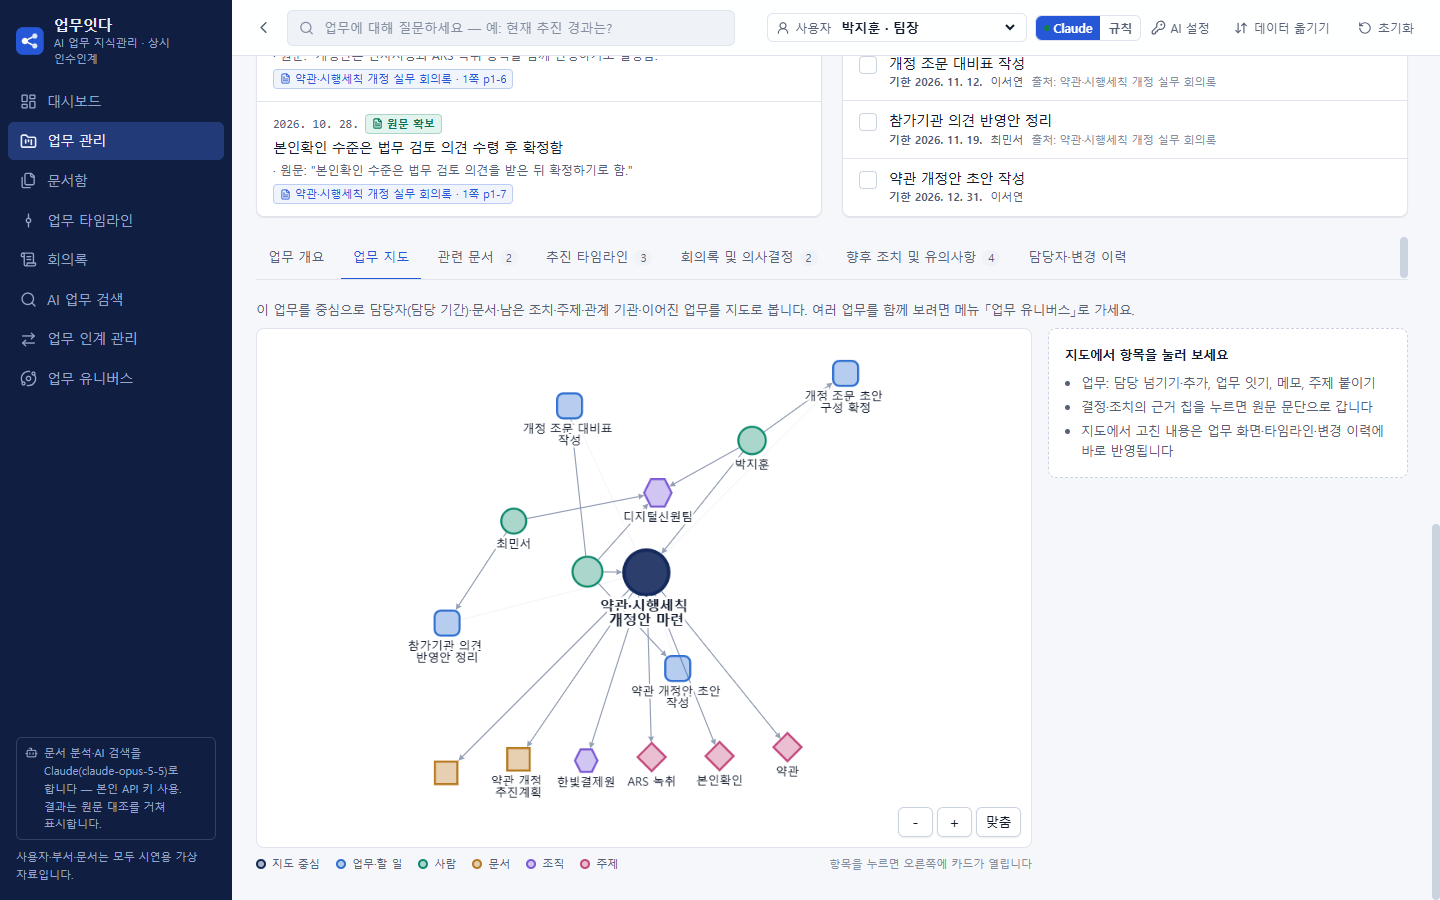
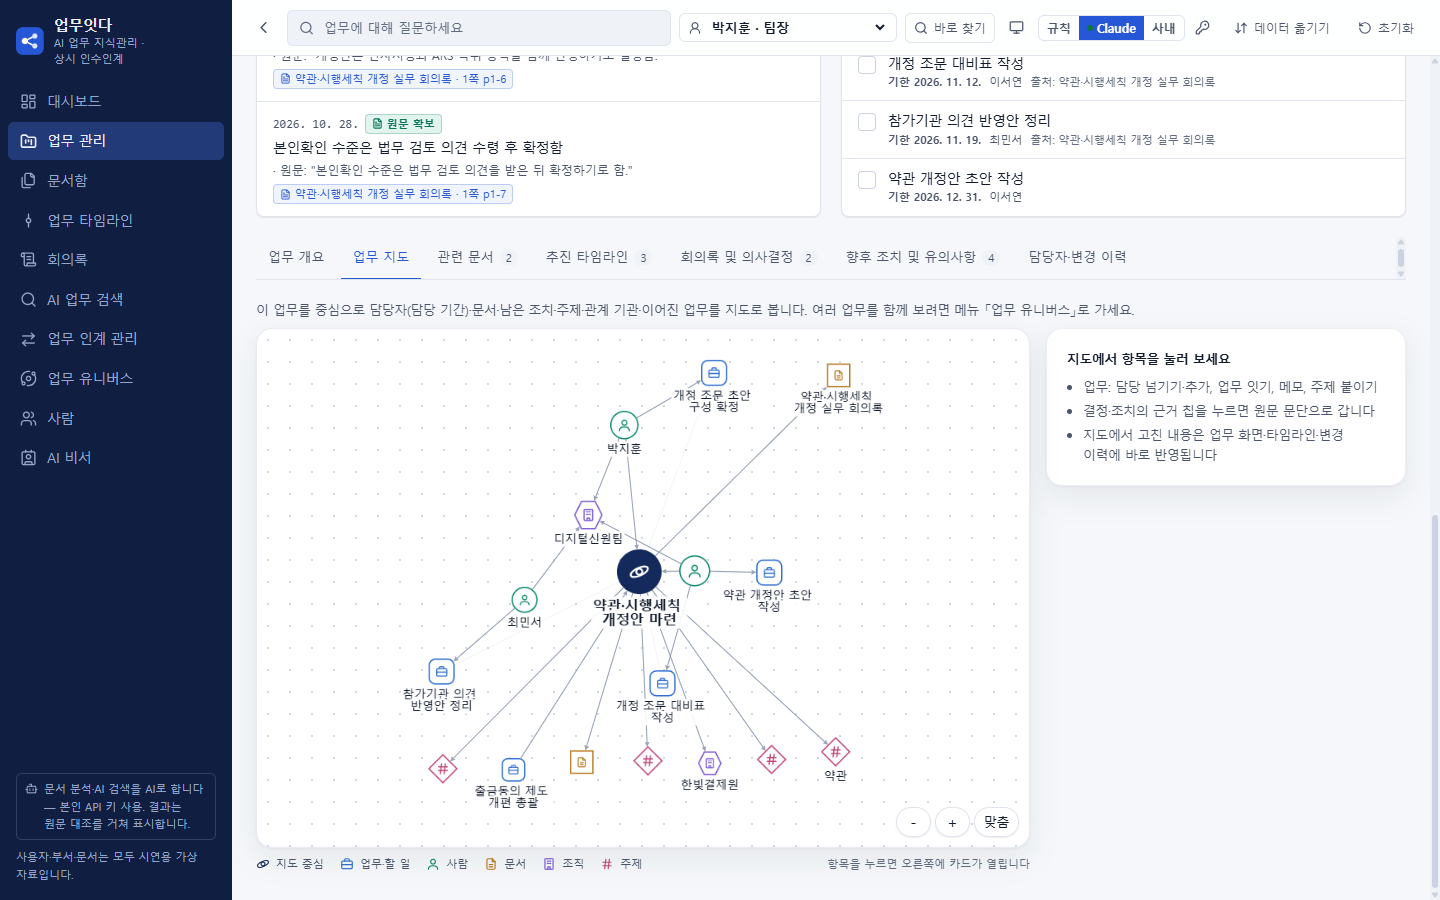
업무잇다 제출 자료: 소개자료 v1.0(AI 비서 한 줄·숫자·화면 현행화), 먼저 읽어주세요·대본 v1.0, 촬영·녹화 도구를 현재 시드에 맞추고 AI 비서 장면 추가

diff --git a/docs/submission/intro-itda/소개자료.html b/docs/submission/intro-itda/소개자료.html
@@ -3,8 +3,8 @@
 <head>
 <meta charset="utf-8">
 <title>업무잇다 소개자료</title>
-<!-- 1차 제출 소개자료 초안 v0.1 (2026-10-29, CR-24 통합 제품 기준). 화면: itda/dist-single/index.html 시연 데이터, 헤드리스 Chrome 1440×900(itda/tools/intro-shots.mjs --key).
-     「동결 뒤 확정」 숫자는 기능 동결 뒤 다시 센다. 모든 이름·기관·문서는 가상. -->
+<!-- 1차 제출 소개자료 v1.0 (2026-10-31, 커밋 713c3eb 기준). 화면: itda/dist-single/index.html 시연 데이터, 헤드리스 Chrome 1440×900(itda/tools/intro-shots.mjs --key).
+     숫자는 2026-10-31 실행 결과. 모든 이름·기관·문서는 가상. -->
 <style>
   @page { size: A4; margin: 0; }
   :root {
@@ -127,22 +127,22 @@
     <div class="hero">
       <div>
         <div class="crop" style="--x:240;--y:56;--w:1200;--h:700"><img src="work-detail.png" alt="업무 상세 화면">
-          <span class="pin" style="left:12%;top:23%">1</span><span class="pin" style="left:3%;top:47%">2</span><span class="pin" style="left:64%;top:47%">3</span></div>
+          <span class="pin" style="left:30%;top:12.5%">1</span><span class="pin" style="left:3.2%;top:41.5%">2</span><span class="pin" style="left:63%;top:70%">3</span></div>
         <div class="cap">업무 상세(인계 자료) — 「비대면 출금동의 추진」</div>
       </div>
       <div>
-        <div class="crop" style="--x:240;--y:56;--w:1200;--h:700"><img src="team-map.png" alt="팀·부서 지도">
-          <span class="pin" style="left:42%;top:58%">4</span><span class="pin" style="left:43%;top:30%">5</span><span class="pin" style="left:83%;top:70%">6</span></div>
-        <div class="cap">업무 유니버스 — 팀장 화면, 「출금이체팀」을 펼치고 업무 카드를 연 모습</div>
+        <div class="crop" style="--x:240;--y:70;--w:1200;--h:700"><img src="team-map.png" alt="팀·부서 지도">
+          <span class="pin" style="left:35%;top:56%">4</span><span class="pin" style="left:49%;top:27%">5</span><span class="pin" style="left:84%;top:80%">6</span></div>
+        <div class="cap">업무 유니버스 — 부장 화면, 「출금이체팀」을 펼치고 업무 카드를 연 모습</div>
       </div>
     </div>
     <div class="legend" style="margin-top:1.8mm">
       <div><span class="k">1</span><span>업무 단위 — 담당자·담당 기간·소관 부서, 「인계 시작」</span></div>
-      <div><span class="k">4</span><span>지도에서 고른 업무 — 카드에서 담당 넘기기·업무 잇기·메모·주제</span></div>
-      <div><span class="k">2</span><span>업무 한눈에 보기 — 무엇·왜·결정·현재·앞으로 5문항</span></div>
-      <div><span class="k">5</span><span>접힌 팀(＋숫자) — 두 번 누르면 펼침, 부서 → 팀 → 업무</span></div>
+      <div><span class="k">4</span><span>지도에서 고른 업무 — 오른쪽 카드에서 담당 넘기기·잇기·메모·주제</span></div>
+      <div><span class="k">2</span><span>업무 한눈에 보기 — 무엇·왜·경과·현재·앞으로 5문항</span></div>
+      <div><span class="k">5</span><span>접힌 팀 — 두 번 누르면 펼침, 부서 → 팀 → 업무</span></div>
       <div><span class="k">3</span><span>문장마다 근거 — <span class="ui">원문 확인</span> 칩을 누르면 원문 문단으로</span></div>
-      <div><span class="k">6</span><span>지도 위험 점검 — 「혼자만 아는 일」(빨간 테두리) 목록</span></div>
+      <div><span class="k">6</span><span>인사이트 — 「혼자만 아는 일」·빠지면 막히는 사람 목록</span></div>
     </div>
   </div>
 
@@ -154,69 +154,71 @@
       <div class="s"><b>조직으로</b>저장·인증·문서함만 사내 시스템으로 바꾸면 같은 핵심 그대로(2쪽)</div>
     </div>
   </div>
-  <div class="foot"><span>업무잇다 · 1차 소개자료 초안 v0.1 (2026-10-29)</span><span>1 / 2</span></div>
+  <div class="foot"><span>업무잇다 · 1차 소개자료</span><span>1 / 2</span></div>
 </section>
 
 <!-- ───────────── 2쪽 ───────────── -->
 <section class="page">
-  <h2>핵심 기능 — 실제 화면(시연 데이터, 실제 Claude 응답)</h2>
+  <h2>핵심 기능 — 실제 화면(시연 데이터, 실제 AI 응답)</h2>
   <div class="grid4">
     <div class="card"><span class="tags"><span class="tag ai">AI</span><span class="tag rel">업무 관련성</span></span>
-      <div class="crop" style="--x:160;--y:420;--w:1100;--h:396"><img src="doc-preview.png" alt="업무 반영 미리보기"></div>
+      <div class="crop" style="--x:150;--y:330;--w:1120;--h:430"><img src="doc-preview.png" alt="업무 반영 미리보기"></div>
       <h3>문서 → 업무 반영 미리보기</h3>
       <p>회의록 PDF를 올리면 결정·일정·조치를 뽑고, 표의 <b>과제·담당·기한</b>은 담당 <b>사용자</b>와 기한까지 잇습니다. 항목마다 <span class="ui">원문 확인 · 1쪽 p1-10</span> — 승인한 것만 반영.</p>
     </div>
     <div class="card"><span class="tags"><span class="tag rel">업무 관련성</span><span class="tag spr">확산 가능성</span></span>
-      <div class="crop" style="--x:335;--y:440;--w:620;--h:232"><img src="work-map.png" alt="업무 지도"></div>
+      <div class="crop" style="--x:258;--y:445;--w:770;--h:300"><img src="work-map.png" alt="업무 지도"></div>
       <h3>승인하면 바로 업무 지도에</h3>
-      <p>업무 상세의 「업무 지도」 탭. 방금 문서에서 온 할 일(파랑)이 담당자(초록)와 이어지고, 문서·주제·관계 기관이 함께 보입니다. 지도에서 고치면 업무 화면에 그대로 반영.</p>
+      <p>업무 상세의 「업무 지도」 탭. 문서에서 온 할 일(파랑)이 담당자(초록)와 이어지고, 문서·주제·소속 조직이 함께 보입니다. 지도에서 고치면 업무 화면에 그대로 반영.</p>
     </div>
     <div class="card"><span class="tags"><span class="tag rel">업무 관련성</span><span class="tag ai">AI</span></span>
-      <div class="crop" style="--x:250;--y:62;--w:690;--h:252"><img src="handover-points.png" alt="지도로 본 인계 포인트"></div>
+      <div class="crop" style="--x:258;--y:135;--w:680;--h:230"><img src="handover-points.png" alt="지도로 본 인계 포인트"></div>
       <h3>인계: 지도로 본 인계 포인트</h3>
-      <p>업무잇다 인계 절차 옆에, 지도에서 찾은 <b>받는 범위·주의·진행 중·관계자</b>를 근거 칩과 함께. 칩을 누르면 근거 기록이 펼쳐지고, 키가 있으면 Claude가 근거 확인된 문장으로 다듬습니다.</p>
+      <p>인계 절차 옆에 지도에서 찾은 <b>받는 범위·주의·진행 중·관계자</b>를 근거 칩과 함께. 키가 있으면 AI가 근거가 확인된 문장으로 다듬습니다.</p>
     </div>
     <div class="card"><span class="tags"><span class="tag rel">업무 관련성</span><span class="tag done">완성도</span></span>
-      <div class="crop" style="--x:258;--y:58;--w:1150;--h:360"><img src="snapshot.png" alt="인계 당시 지도와 지금 지도"></div>
+      <div class="crop" style="--x:258;--y:150;--w:1150;--h:390"><img src="snapshot.png" alt="인계 당시 지도와 지금 지도"></div>
       <h3>인계 당시 ↔ 지금, 지도로 비교</h3>
       <p>확정 때 보존한 스냅샷으로 그때의 업무 지도를 다시 그립니다. 끝난 담당은 점선 「전 담당」 — 누가 넘겼고 무엇이 늘었는지 한눈에.</p>
     </div>
   </div>
 
+  <div class="block" style="border-color:#a9bff0;background:#f7f9ff"><span class="tags"><span class="tag ai">AI</span><span class="tag rel">업무 관련성</span></span><b>AI 비서 탭 — 고객 맥락도 끊기지 않게.</b> 고객 대화에서 AI가 요청·선호·기념일을 제안하고, 원문 대조 뒤 승인한 것만 고객 기록에 남습니다. 담당이 바뀌어도 이력과 미팅 전 브리핑이 이어집니다.</div>
+
   <div class="block ai"><span class="tags"><span class="tag ai">창의성 · AI 활용</span></span>
     <h2>AI는 등록된 원문에 있는 것만 — 앱이 검사하고, 사람이 승인합니다</h2>
     <div class="aiflow">
-      <div class="b"><b>① 원문을 문단으로</b>PDF·HWPX를 쪽·문단 번호로. 표·절 제목은 따로 두어 행을 지킴</div>
+      <div class="b"><b>① 원문을 문단으로</b>PDF·HWPX를 쪽·문단 번호로. 표는 행을 지킴</div>
       <div class="arrow"><svg width="14" height="14" viewBox="0 0 16 16"><path d="M2 6h7V2l6 6-6 6v-4H2z"/></svg></div>
-      <div class="b"><b>② Claude가 제안</b>정해진 JSON으로, 항목마다 원문 구절(quote)·문단 번호. 담당은 원문에 있는 이름만</div>
+      <div class="b"><b>② AI가 제안</b>항목마다 원문 구절·문단 번호. 담당은 원문에 있는 이름만</div>
       <div class="arrow"><svg width="14" height="14" viewBox="0 0 16 16"><path d="M2 6h7V2l6 6-6 6v-4H2z"/></svg></div>
-      <div class="b app"><b>③ 앱이 검사</b>quote가 원문에 있나·날짜가 원문에 있나 → 못 넘으면 <b>「추가 확인 필요」</b>로 낮춤. 「꼼꼼히 읽기」 두 번째 호출이 빠진 것·의심 항목을 찾음</div>
+      <div class="b app"><b>③ 앱이 검사</b>구절·날짜가 원문에 있나 → 없으면 <b>「추가 확인 필요」</b>로 낮춤. 「꼼꼼히 읽기」가 빠진 것을 다시 찾음</div>
       <div class="arrow"><svg width="14" height="14" viewBox="0 0 16 16"><path d="M2 6h7V2l6 6-6 6v-4H2z"/></svg></div>
       <div class="b"><b>④ 사람이 승인</b>승인한 항목만 반영, 근거 칩 유지</div>
     </div>
     <div class="modes">
-      <div><b>키 없음(기본)</b> 업무잇다 문장 규칙 + 업무 유니버스 표·목록 규칙으로 같은 화면. 밖으로 보내는 것 없음</div>
-      <div><b>본인 Claude API 키</b> 문서 분석·AI 업무 검색·인계 포인트 다듬기를 실시간으로. 키는 이 브라우저에만</div>
-      <div><b>실제 키 시험(가상 문서)</b> 회의록 표 3행 → 담당 3/3·기한 3/3, 제안 10건 모두 원문 확인 <span class="fz">동결 뒤 확정</span></div>
+      <div><b>키 없음(기본)</b> 규칙으로 같은 화면. 밖으로 보내는 것 없음</div>
+      <div><b>본인 API 키(Claude)</b> 문서 분석·검색·인계 포인트·고객 대화 분석. 키는 이 브라우저에만</div>
+      <div><b>실제 키 결과(가상 문서)</b> 표 3행 담당·기한 3/3. 제안 10건 중 9건 원문 확인, 1건 「별도 확인 필요」</div>
     </div>
-    <p class="small" style="margin:1.4mm 0 0">만드는 과정도 AI: 설계·구현·검증을 Claude Code로 — 계획·변경안(CR)은 사람이 승인하고, 작업마다 자동 시험·브라우저 점검으로 확인.</p>
+    <p class="small" style="margin:1.4mm 0 0">만드는 과정도 AI: 설계·구현·검증을 Claude Code로 — 계획·변경안은 사람이 승인, 작업마다 자동 시험으로 확인.</p>
   </div>
 
   <div class="block"><span class="tag done">완성도</span>
     <div class="nums">
-      <div class="num"><div class="v">57<small>개</small><span class="fz">동결 뒤 확정</span></div><div class="l">업무잇다 단위 시험(지도 파생·지도 편집·합쳐 불러오기·문서 분석)</div></div>
-      <div class="num"><div class="v">2,320<small>개</small></div><div class="l">업무 유니버스 핵심 모듈 단위 시험(그대로 재사용)</div></div>
-      <div class="num"><div class="v">5<small>건</small><span class="fz">동결 뒤 확정</span></div><div class="l">실제 Claude 키 시험(문서 분석·꼼꼼히 읽기·검색·인계 포인트)</div></div>
-      <div class="num"><div class="v">12<small>/12</small><span class="fz">동결 뒤 확정</span></div><div class="l">화면 자동 점검 Chrome·Edge(파일 더블클릭)</div></div>
+      <div class="num"><div class="v">736<small>개</small></div><div class="l">업무잇다 단위 시험</div></div>
+      <div class="num"><div class="v">2,320<small>개</small></div><div class="l">유니버스 핵심 단위 시험(재사용)</div></div>
+      <div class="num"><div class="v">11<small>건</small></div><div class="l">실제 AI 키 시험(가상 자료)</div></div>
+      <div class="num"><div class="v">22<small>/22</small></div><div class="l">화면 자동 점검 Chrome·Edge</div></div>
     </div>
   </div>
 
   <div class="block xp"><span class="tag spr">확산 가능성 · 다음 단계</span>
     <h2>같은 핵심을 그대로 옮겨 넓힙니다</h2>
-    <p><b>지금</b> 단일 HTML·브라우저 저장, <b>합쳐 불러오기</b>로 서버 없이 팀 지도. <b>다음</b> 사내 인증·문서함·전자결재 연계 — 바꿀 곳은 저장·로그인·문서 수집뿐, 지도 모델·문서 읽기 규칙·AI 인용 검사는 브라우저 기능을 쓰지 않아 그대로 옮겨집니다. <b>이후</b> 부서 → 조직 지도, 사내 LLM.</p>
-    <p class="small"><b>지금의 한계</b> 스캔 PDF(글자 없음)는 「별도 확인 필요」 경고 · 키는 브라우저에 평문 저장(공용 PC 금지, 조직 서비스는 서버 중계로) · 가상 데이터만, 실제 사람 관찰은 아직</p>
+    <p><b>지금</b> 단일 HTML, <b>합쳐 불러오기</b>로 서버 없이 팀 지도. <b>다음</b> 사내 인증·문서함·전자결재 연계 — 바꿀 곳은 저장·로그인·문서 수집뿐, 지도 모델·AI 인용 검사는 그대로 옮겨집니다. <b>이후</b> 조직 지도, 사내 LLM.</p>
+    <p class="small"><b>지금의 한계</b> 스캔 PDF는 「별도 확인 필요」 경고 · 키는 브라우저에 평문 저장(공용 PC 금지) · 가상 데이터로만 검증</p>
   </div>
-  <div class="foot"><span>「동결 뒤 확정」 숫자는 기능 동결 뒤 다시 세어 고칩니다 · 화면 속 이름·기관은 모두 가상</span><span>2 / 2</span></div>
+  <div class="foot"><span>시험 숫자는 2026-10-31 실행 결과 · 화면 속 이름·기관은 모두 가상</span><span>2 / 2</span></div>
 </section>
 </body>
 </html>

diff --git a/docs/시연-대본-업무잇다.md b/docs/시연-대본-업무잇다.md
@@ -1,8 +1,8 @@
-# 시연 영상 대본 — 업무잇다(통합 제품) v0.1 (2026-10-29)
+# 시연 영상 대본 — 업무잇다(통합 제품) v1.0 (2026-10-31)
 
 - 기준: CR-24 통합 제품(itda). 이전 대본(docs/시연-대본-초안.md)은 업무 유니버스 단독 제품 기준이라 참고만 한다.
-- 길이 3분 이내. 하단 한국어 자막. 음성은 사용자가 정한다(없음 / 내레이션). 클릭 위치는 빨간 원으로 표시한다.
-- 화면 1440×900. 시연 데이터(가상 7명·8업무·2팀). 문서는 「약관 개정 실무 회의록(시연용).pdf」(itda/tools/make-demo-pdfs.mjs).
+- 길이 3분 이내(녹화본 2분 28초). 하단 한국어 자막, 음성 없음(사용자 결정 2026-10-31 「진행」). 클릭 위치는 빨간 원으로 표시한다.
+- 화면 1440×900. 시연 데이터(가상 10명·15업무·조직 10개·고객 18명). 문서는 「약관 개정 실무 회의록(시연용).pdf」(itda/tools/make-demo-pdfs.mjs).
 - AI: 본인 키로 실제 Claude를 쓴다(화면에 키는 나오지 않음). 키 없이 찍으면 같은 흐름이 규칙 기반 결과로 나온다.
 - 자동 녹화 도구: itda/tools/record-demo.mjs(대본의 장면을 그대로 실행, 자막·클릭 표시를 화면에 그려 MP4로 저장).
 
@@ -15,15 +15,16 @@
 | # | 시간 | 화면·동작 | 자막(위: 큰 글, 아래: 작은 글) | 심사 기준 |
 |---|---|---|---|---|
 | 1 | 0:00–0:07 | 제목 카드 | 업무잇다 / 평소의 업무 기록이 곧 인수인계 — 모이면 조직의 업무 지도 · 등장 인물·기관·문서는 모두 시연용 가상 자료 | — |
-| 2 | 0:07–0:20 | 이서연(주무관)으로 시작 → 대시보드 | 업무 단위로 일하는 화면 / 내 업무·남은 조치·AI가 발견한 누락(혼자만 아는 업무 포함) | 업무 관련성 |
-| 3 | 0:20–0:50 | 문서함 → 문서 등록 → PDF 선택 → 본문·작성일 자동 → 「AI 분석」(꼼꼼히 읽기) | 회의록 PDF를 올리면 Claude가 결정·일정·조치를 뽑음 / 표의 과제·담당·기한까지 — 담당은 사용자로 이어짐 | AI·업무 관련성 |
+| 2 | 0:07–0:20 | 박지훈(팀장)으로 시작 → 대시보드 | 업무 단위로 일하는 화면 / 내 업무·남은 조치·AI가 발견한 누락(혼자만 아는 업무 포함) | 업무 관련성 |
+| 3 | 0:20–0:50 | 문서함 → 문서 등록 → PDF 선택 → 본문·작성일 자동 → 「AI 분석」(꼼꼼히 읽기) | 회의록 PDF를 올리면 AI가 결정·일정·조치를 뽑음 / 표의 과제·담당·기한까지 — 담당은 사용자로 이어짐 | AI·업무 관련성 |
 | 4 | 0:50–1:05 | 반영 미리보기에서 「원문 확인」 칩·담당 표시를 짚고 → 「원문 확인 항목 모두 승인」 → 문서 등록 | AI가 낸 구절을 앱이 원문과 대조 / 담당자가 승인한 것만 업무에 반영 | 창의성·AI |
 | 5 | 1:05–1:20 | 업무 상세 「약관·시행세칙 개정안 마련」 → 한눈에 보기 → 근거 칩 클릭(원문 문단으로) | 업무 화면이 곧 인계 자료 / 문장마다 근거 — 누르면 원문 문단으로 | 업무 관련성 |
 | 6 | 1:20–1:35 | 「업무 지도」 탭 → 새 할 일이 담당자와 이어진 모습 → 할 일 카드 | 방금 승인한 할 일이 지도에 / 누가 무엇을 언제까지 — 한눈에 | 업무 관련성 |
-| 7 | 1:35–2:00 | 팀장 박지훈으로 전환 → 업무 유니버스(팀·부서 지도) → 팀 펼치기 → 「혼자만 아는 일」 → 업무 카드에서 메모 남기기 | 업무가 모이면 팀·부서 지도로 / 한 사람만 해 본 업무를 미리 찾음 — 지도에서 바로 고침 | 확산·업무 관련성 |
+| 7 | 1:35–2:00 | 부장 서지안으로 전환 → 업무 유니버스 → 「전자금융부」 칩(팀·부서 지도) → 팀 펼치기 → 「혼자만 아는 일」 → 업무 카드에서 메모 남기기 | 업무가 모이면 팀·부서 지도로 / 한 사람만 해 본 업무를 미리 찾음 — 지도에서 바로 고침 | 확산·업무 관련성 |
 | 8 | 2:00–2:35 | 김도윤 → 이서연 인계: 인계 시작 → AI 사전 점검 + 「지도로 본 인계 포인트」 근거 칩 → 체크 → 제출 → 이서연 인수 확인 → 확정 → 스냅샷 지도 비교(전 담당 점선) | 인수인계서를 따로 쓰지 않음 / 지도가 찾은 인계 포인트와 확정 시점 스냅샷 | 업무 관련성·완성도 |
 | 9 | 2:35–2:50 | AI 업무 검색 「비대면 출금동의 현재 추진 경과는?」 → 근거 칩 | 묻는 업무의 등록 자료로만 답함 / 문장마다 원문 확인·AI 추론·추가 확인 필요 | AI |
-| 10 | 2:50–3:00 | 마무리 카드 | 파일 하나로 시작 → 합쳐 불러오기로 팀 지도 → 사내 연계로 조직까지 / 업무잇다 | 확산 |
+| 9-2 | 약 20초 | 김도윤 → AI 비서 오늘 → 대화 분석(가상 고객 김도현, 가상 대화) → 전송 내용 확인·동의 → 근거 문장과 함께 제안 → 저장 → 고객 히스토리 | 고객 맥락도 끊기지 않게 / 앱이 원문과 대조 — 담당자가 고른 것만 고객 기록에 | AI·업무 관련성 |
+| 10 | 끝 | 마무리 카드 | 파일 하나로 시작 → 합쳐 불러오기로 팀 지도 → 사내 연계로 조직까지 / 업무잇다 | 확산 |
 
 ## 찍기 전 확인
 
@@ -31,7 +32,8 @@
 - 키를 쓰면: AI 설정에 키 저장, 엔진 「Claude」. 분석·검색 대기 시간은 편집에서 줄이거나(자동 녹화는 대기 구간을 빠르게 넘김) 자막으로 안내.
 - 화면 배율 100%, 창 1440×900.
 
-## 사용자가 정할 것
+## 정한 것(사용자 2026-10-31 「진행」)
 
-1. 녹화 방식: ① 자동 녹화(자막·클릭 표시, 음성 없음 — 조력자 영상과 같은 방식) ② 직접 화면 녹화 + 내레이션
-2. 대기 시간 처리: 실제 Claude 응답(약 20초)을 그대로 둘지, 「약 20초 소요」 자막으로 건너뛸지
+1. 녹화 방식: 자동 녹화(자막·클릭 표시, 음성 없음)
+2. AI 비서 비중: 소개자료 한 줄, 영상 약 20초
+3. 대기 시간: 실제 AI 응답을 기다리는 동안 녹화를 멈추고 「영상에서는 줄임」 자막으로 안내
